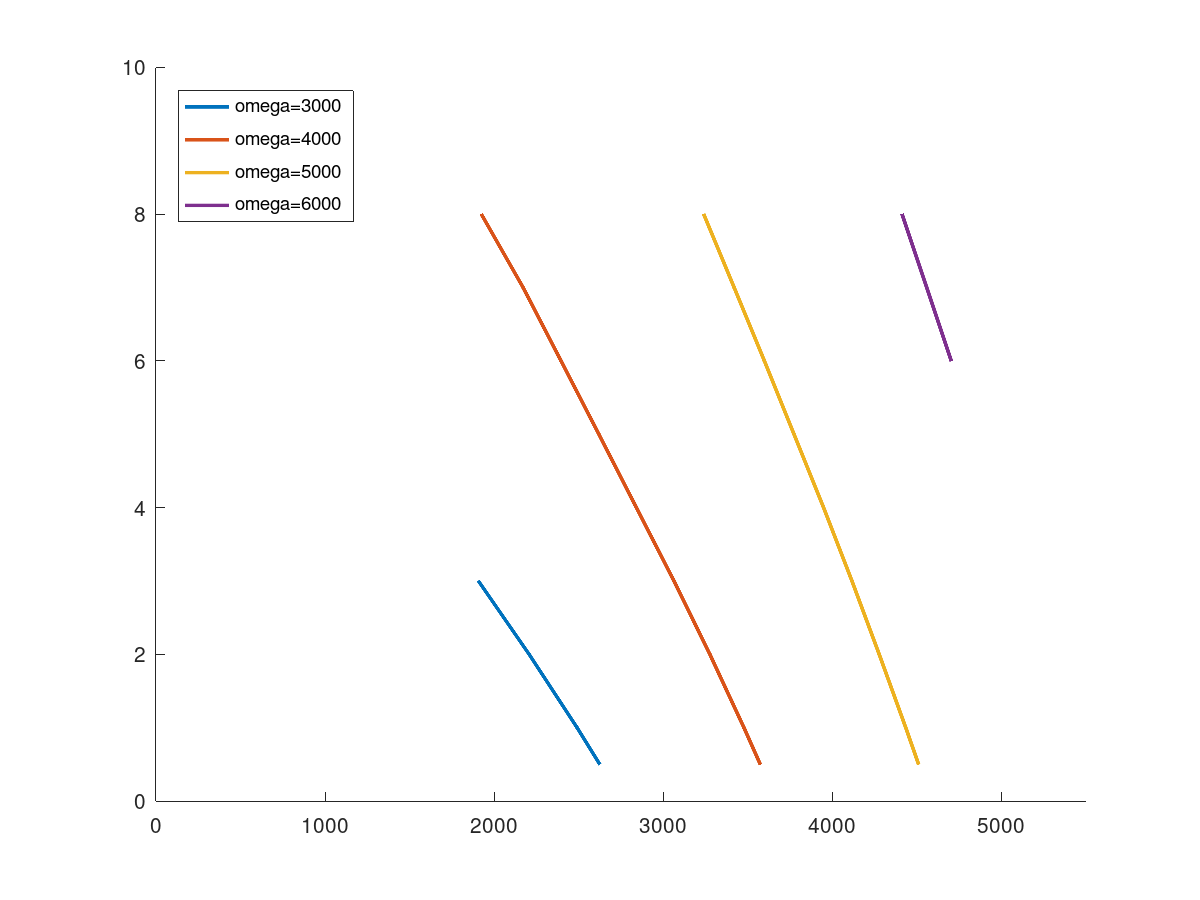
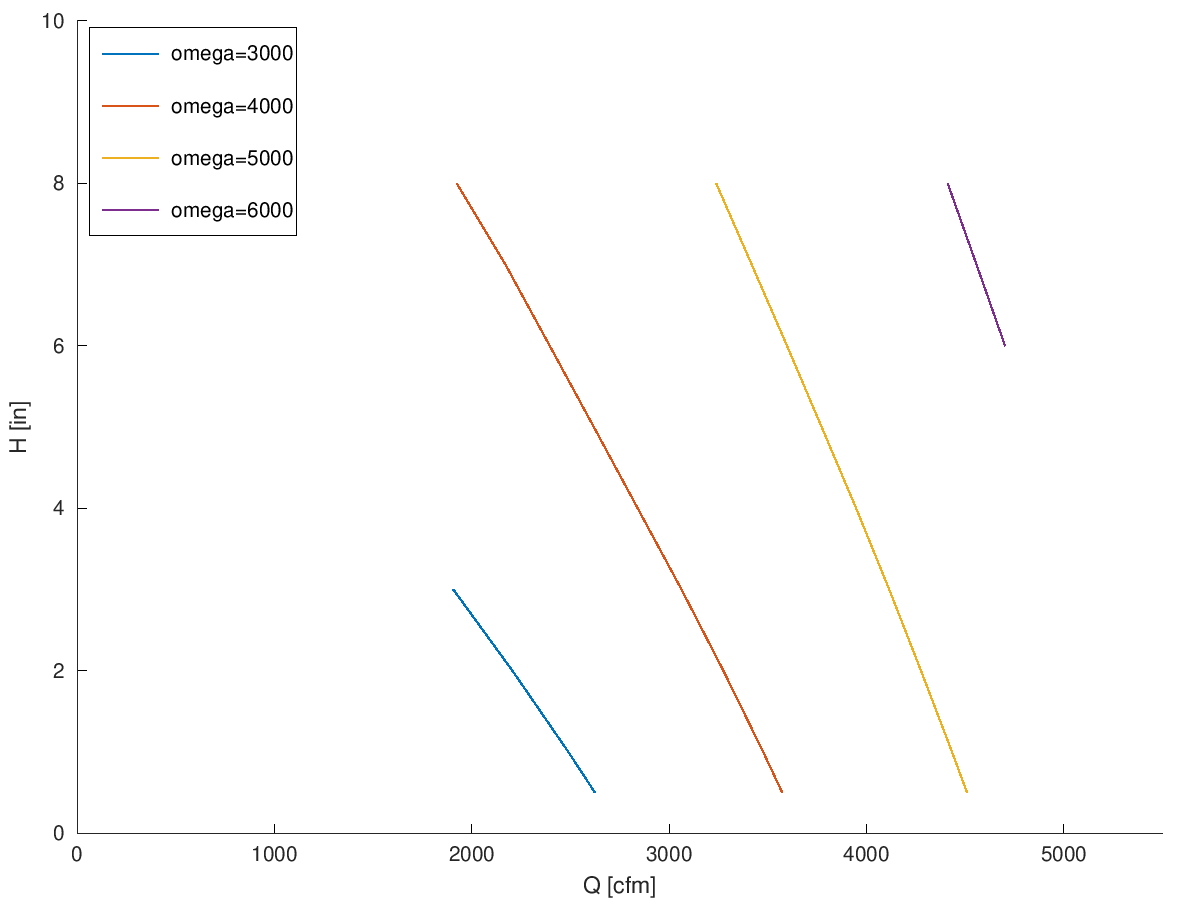
Added axis labels to curves

diff --git a/test_perf_curve.m b/test_perf_curve.m
@@ -14,6 +14,8 @@ ylim([0, 10]);
 
 legendCell = cellstr(num2str(omega_arr', 'omega=%-d'));
 legend(legendCell, "Location", "Northwest");
+xlabel("Q [cfm]");
+ylabel("H [in]");
 
 % legend("3000 rpm", "4000 rpm", "5000 rpm", "6000 rpm");
 
